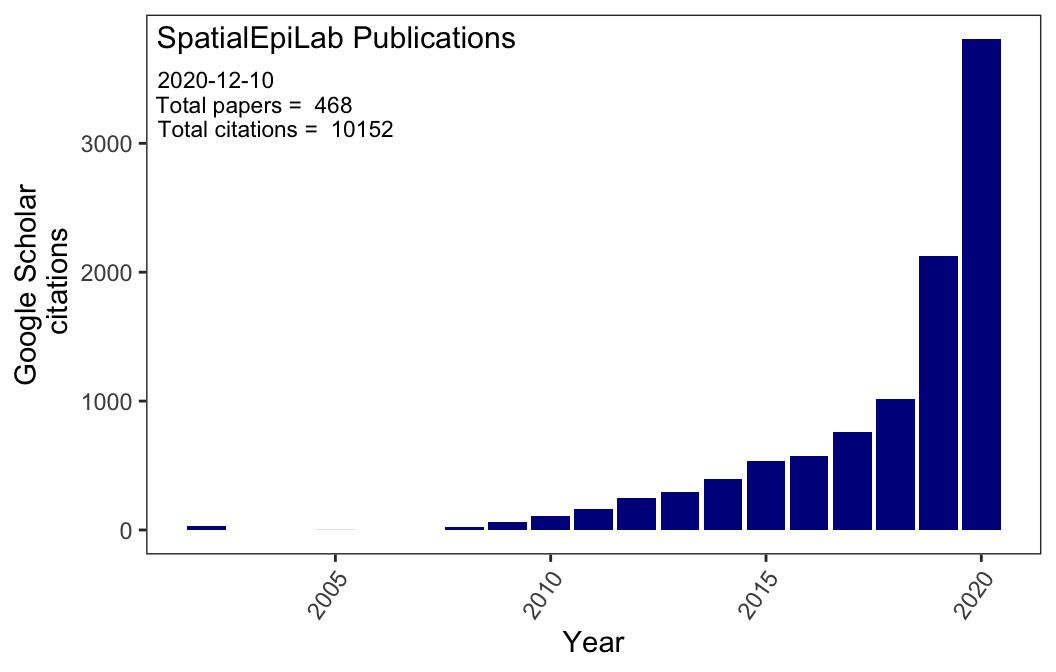
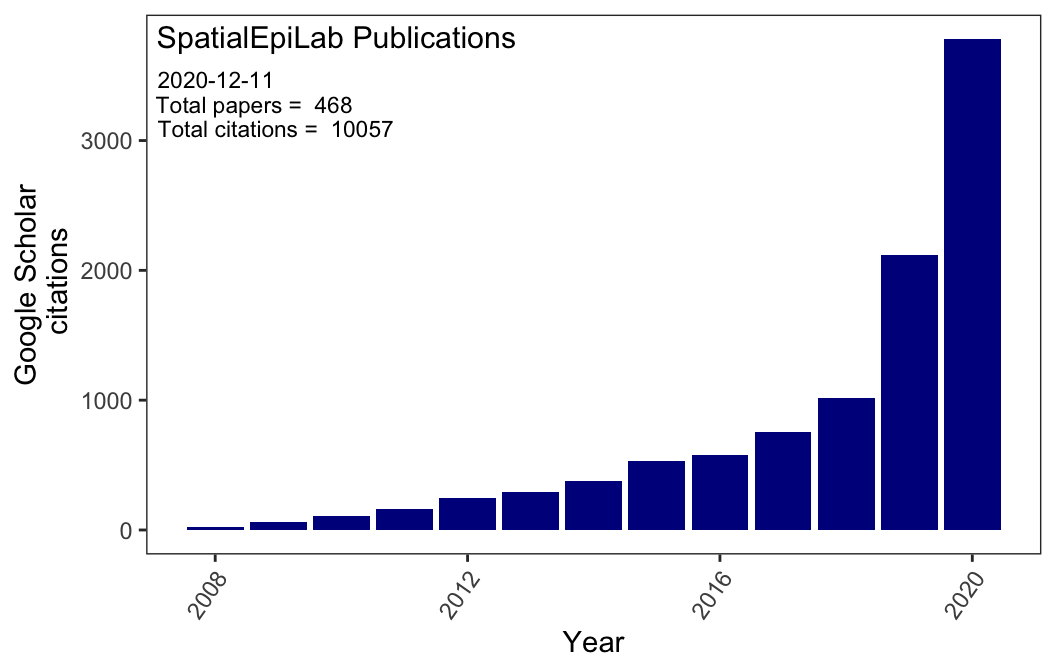
update site

diff --git a/people.html b/people.html
@@ -1469,7 +1469,7 @@ FB Garcia Jr, K Halton, N Graves, et al
 <h3>Nicholas Clark</h3>
 <p><img src="images/nick_profile.JPG" class="round" style="border:4px solid; margin-bottom: 20px" alt="Dr Nicholas J Clark is a lecturer in molecular epidemiology at the Spatial Epidemiology Laboratory (SpatialEpiLab), University of Queensland"/></p>
 <center>
-Dr Clark is an ARC DECRA Fellow and Lecturer in Genetics and Molecular Epidemiology with broad interests in spatial epidemiology, molecular ecology and identifying mechanisms that influence the spread of pathogens at the human-wildlife interface. He graduated with a PhD from <a href="https://www.griffith.edu.au/environmental-futures-research-institute" target="_blank">Griffith University</a> under primary supervision of <a href="https://www.zoo.ox.ac.uk/people/dr-sonya-clegg" target="_blank">Dr Sonya Clegg</a>, where he used mathematical models to study factors that influence the ecology and evolution of <a href="https://nicholasjclark.weebly.com/avian-parasites.html" target="_blank">avian malaria</a> parasites. His role with the group is to conduct spatial modelling of zoonotic pathogens, primarily Q fever and rabies virus, develop multivariate statistical models and lead efforts to forecast risks of tick infestation for Australian domestic animals. He is currently seeking PhD candidates with skills in data analysis and / or statistical programming to contribute to projects linking Big Data to ecology and molecular epidemiology problems. Read more about Dr Clark’s work on his <a href="https://researchers.uq.edu.au/researcher/15140" target="_blank">UQ Researchers website</a> and at his <a href="https://scholar.google.com.au/citations?user=5bO9uxEAAAAJ&amp;hl=en" target="_blank">Google Scholar</a> page.
+Dr Clark is an ARC DECRA Fellow and Lecturer in Genetics and Molecular Epidemiology with broad interests in spatial epidemiology, ecologial forecasting and identifying mechanisms that influence the spread of pathogens at the human-wildlife interface. He graduated with a PhD from <a href="https://www.griffith.edu.au/environmental-futures-research-institute" target="_blank">Griffith University</a> under primary supervision of <a href="https://www.zoo.ox.ac.uk/people/dr-sonya-clegg" target="_blank">Dr Sonya Clegg</a>, where he used mathematical models to study factors that influence the ecology and evolution of <a href="https://nicholasjclark.weebly.com/avian-parasites.html" target="_blank">avian malaria</a> parasites. His role with the group is to conduct spatial modelling of zoonotic pathogens, primarily Q fever and rabies virus, develop multivariate statistical models and lead efforts to forecast risks of tick infestation for Australian domestic animals. He is currently seeking PhD candidates with skills in data analysis and / or statistical programming to contribute to projects linking Big Data to ecology and molecular epidemiology problems. Read more about Dr Clark’s work on his <a href="https://researchers.uq.edu.au/researcher/15140" target="_blank">UQ Researchers website</a> and at his <a href="https://scholar.google.com.au/citations?user=5bO9uxEAAAAJ&amp;hl=en" target="_blank">Google Scholar</a> page. <code>R</code> code for Dr Clark’s software programs can be found on his <a href="https://github.com/nicholasjclark">Github</a> page.
 </center>
 <br>
 <center>
@@ -2749,6 +2749,20 @@ The Lancet
 </td>
 <td style="text-align:left;width: 20em; ">
 CJL Murray, D Dicker, G Nguyen, et al
+</td>
+</tr>
+<tr>
+<td style="text-align:right;">
+2017
+</td>
+<td style="text-align:left;width: 30em; ">
+Exclusive Breastfeeding and Mothers’ Employment Status in Gondar Town, Northwest Ethiopia: a Comparative Cross-Sectional Study
+</td>
+<td style="text-align:left;width: 20em; font-style: italic;">
+Int Breastfeeding J
+</td>
+<td style="text-align:left;width: 20em; ">
+DA Chekol, GA Biks, YA Gelaw, et al
 </td>
 </tr>
 <tr>

diff --git a/publications.html b/publications.html
@@ -2530,6 +2530,17 @@ PW Dhewantara, AA Mamun, WY Zhang, et al
 </tr>
 <tr>
 <td style="text-align:left;width: 30em; ">
+Exclusive Breastfeeding and Mothers’ Employment Status in Gondar Town, Northwest Ethiopia: a Comparative Cross-Sectional Study
+</td>
+<td style="text-align:left;width: 20em; font-style: italic;">
+Int Breastfeeding J
+</td>
+<td style="text-align:left;width: 20em; ">
+DA Chekol, GA Biks, YA Gelaw, et al
+</td>
+</tr>
+<tr>
+<td style="text-align:left;width: 30em; ">
 Maternal Health Care Service Seeking Behaviors and Associated Factors among Women in Rural Haramaya District, Eastern Ethiopia a Triangulated Community-Based Cross-Sectional Study
 </td>
 <td style="text-align:left;width: 20em; font-style: italic;">
@@ -3667,17 +3678,6 @@ PW Dhewantara, A Dinata
 </tr>
 <tr>
 <td style="text-align:left;width: 30em; ">
-Energy Efficiency and Economics of Rice Cultivation Systems under Subtropical Eastern Himalaya
-</td>
-<td style="text-align:left;width: 20em; font-style: italic;">
-Energy for Sustainable Development
-</td>
-<td style="text-align:left;width: 20em; ">
-S Mandal, S Roy, A Das, et al
-</td>
-</tr>
-<tr>
-<td style="text-align:left;width: 30em; ">
 Determinants of Late Presentation to Hiv/Aids Care in Southern Tigray Zone, Northern Ethiopia: An Institution Based Case–control Study
 </td>
 <td style="text-align:left;width: 20em; font-style: italic;">
@@ -4191,17 +4191,6 @@ Jurnal Litbang Pengendalian Penyakit Bersumber Binatang Banjarnegara
 </td>
 <td style="text-align:left;width: 20em; ">
 PW Dhewantara, A Dinata
-</td>
-</tr>
-<tr>
-<td style="text-align:left;width: 30em; ">
-Energy Efficiency and Economics of Rice Cultivation Systems under Subtropical Eastern Himalaya
-</td>
-<td style="text-align:left;width: 20em; font-style: italic;">
-Energy for Sustainable Development
-</td>
-<td style="text-align:left;width: 20em; ">
-S Mandal, S Roy, A Das, et al
 </td>
 </tr>
 <tr>
@@ -5877,7 +5866,7 @@ GA Roth, D Abate, KH Abate, SM Abay, C Abbafati, N Abbasi, …
 2018
 </td>
 <td style="text-align:right;">
-1532
+1533
 </td>
 </tr>
 <tr>
@@ -5894,7 +5883,7 @@ JD Stanaway, A Afshin, E Gakidou, SS Lim, D Abate, KH Abate, …
 2018
 </td>
 <td style="text-align:right;">
-585
+564
 </td>
 </tr>
 <tr>
@@ -5928,7 +5917,7 @@ A Ortiz-Pelaez, DU Pfeiffer, RJ Soares-Magalhaes, FJ Guitian
 2006
 </td>
 <td style="text-align:right;">
-244
+245
 </td>
 </tr>
 <tr>
@@ -5962,7 +5951,7 @@ N Fullman, J Yearwood, SM Abay, C Abbafati, F Abd-Allah, J Abdela, …
 2018
 </td>
 <td style="text-align:right;">
-205
+204
 </td>
 </tr>
 <tr>
